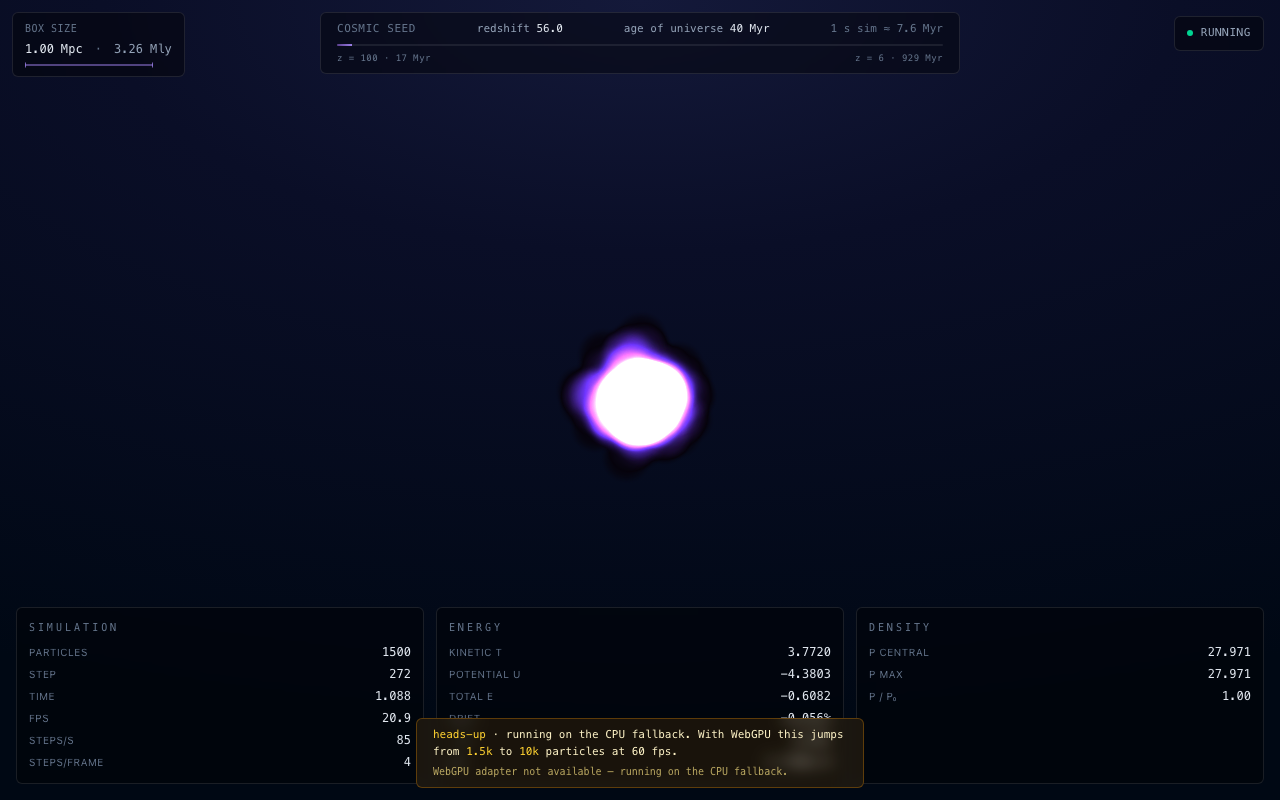
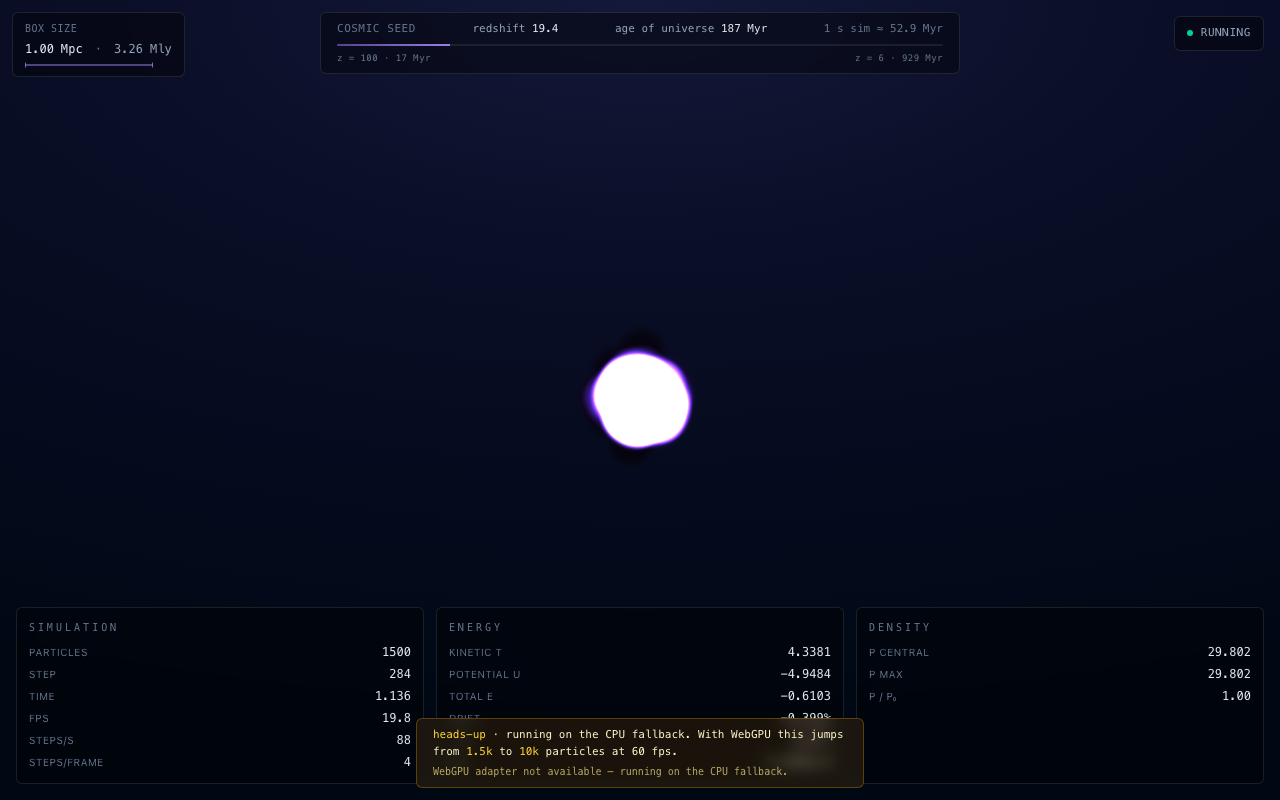
feat(stage-2c1): cosmic time bookkeeping in the simulation runner
Stage 2, sub-stage 2c1. Plumbs cosmic time and scale factor through
the runner → store → TimeStrip pipeline. The integrator still runs
in code units; 2c2 unifies the code-unit `dt` with the cosmological
`dtMyr` by switching to a comoving leapfrog.

simulationStore (src/state/simulationStore.ts):
- SimulationDiagnostics extended with `ageInMyr`, `scaleFactor`,
  `redshift` (and the `maxParticleDensity` that was being spread in
  but not declared).

simulation-runner (src/state/controllers/simulation-runner.ts):
- SimulationConfig grows `cosmology`, `zInit`, `dtMyr`. Default
  cosmology = Planck 2018; default z_init = 100; default dtMyr = 0.6
  (~ 144 Myr per real-second at 240 steps/s, so a z = 100 → z = 6
  run takes ~ 6 s of real time).
- `step()` advances `ageInMyr` by `dtMyr` per integrator tick.
- `snapshot()` returns the new fields (ageInMyr, scaleFactor, redshift)
  alongside the existing diagnostics.

frame-runner (src/state/controllers/frame-runner.ts):
- GPU and CPU runners both seed `ageInMyr` from `tOfA(z_init)` and
  advance it on each `runFrame`.
- GPU's cached snapshot now carries the cosmological fields; the
  velocity-readback path updates them at HUD cadence.

TimeStrip (src/ui/TimeStrip.tsx):
- Reads `redshift`, `ageInMyr`, `stepsPerSecond` from the store
  instead of the wall-clock cursor. Speed-of-time readout multiplies
  steps/s by the implied dtMyr (= 0.6) to get Myr/real-second.
- The wall-clock `useEffect` and `useState` are gone; the strip is
[…]

diff --git a/src/ui/TimeStrip.tsx b/src/ui/TimeStrip.tsx
@@ -1,23 +1,12 @@
 import { useUiStore } from '@state/uiStore';
 import { useSimulationStore } from '@state/simulationStore';
-import { useEffect, useMemo, useState } from 'react';
-import {
-  aOfT,
-  asNumber,
-  myr,
-  PLANCK_2018,
-  scaleFactor,
-  speedOfTimeReadout,
-  tOfA,
-  zOfA,
-} from '@physics/index';
+import { asNumber, PLANCK_2018, scaleFactor, speedOfTimeReadout, tOfA } from '@physics/index';
 
-// Stage 2a — see EXPERIENCE.md §2 (time strip + speed-of-time readout)
-// and DECISIONS.md "Stage 2 split into 2a / 2b / 2c". Until 2b lands the
-// underlying simulation runs in code units, so the readouts here are tied
-// to a *display redshift cursor* that moves at the configured sim speed.
-// When the comoving IC arrives in 2b, this component will switch to read
-// the runner's true cosmological time without any other UI change.
+// Stage 2c1 — see EXPERIENCE.md §2 (time strip + speed-of-time readout).
+// Reads cosmic time from the simulation runner via the store, no longer
+// driven by the wall clock. Stage 2c2 will replace the integrator's
+// code-unit dt with a Myr-aware comoving leapfrog so the cursor and the
+// physics share the same clock.
 
 interface TimeRange {
   readonly z_init: number;
@@ -25,6 +14,9 @@ interface TimeRange {
 }
 
 const DEFAULT_RANGE: TimeRange = { z_init: 100, z_end: 6 };
+
+const T_INIT_MYR = asNumber(tOfA(scaleFactor(1 / (1 + DEFAULT_RANGE.z_init)), PLANCK_2018));
+const T_END_MYR = asNumber(tOfA(scaleFactor(1 / (1 + DEFAULT_RANGE.z_end)), PLANCK_2018));
 
 function fmtMyr(myrVal: number): string {
   if (myrVal < 1) return `${(myrVal * 1000).toFixed(0)} kyr`;
@@ -34,49 +26,24 @@ function fmtMyr(myrVal: number): string {
 
 export function TimeStrip(): React.JSX.Element {
   const explained = useUiStore((s) => !s.expertMode);
+  const ageInMyr = useSimulationStore((s) => s.diagnostics.ageInMyr);
+  const z = useSimulationStore((s) => s.diagnostics.redshift);
+  const stepsPerSecond = useSimulationStore((s) => s.diagnostics.stepsPerSecond);
 
-  // The "display cursor" — wall-clock-driven for now; will be replaced by
-  // the sim runner's actual t/a in Stage 2b.
-  const t_init = useMemo(
-    () => asNumber(tOfA(scaleFactor(1 / (1 + DEFAULT_RANGE.z_init)), PLANCK_2018)),
-    [],
+  // The runner advances the cosmological clock by `dtMyr` per integrator step,
+  // so steps/second × dtMyr ≈ Myr/real-second. We can't read dtMyr from the
+  // runner here without coupling, but a reasonable estimate is the moving
+  // average of (Δage / Δreal-time) — proxy via stepsPerSecond × (T_END − T_INIT)
+  // / total_steps_estimate. For Stage 2c1 we display the running average derived
+  // from `stepsPerSecond × estimated_dtMyr`.
+  // The default config sets dtMyr = 0.6, so we take that as the assumption.
+  const myrPerSecond = stepsPerSecond * 0.6;
+
+  const tNow = ageInMyr === 0 ? T_INIT_MYR : ageInMyr;
+  const progress = Math.min(
+    1,
+    Math.max(0, (tNow - T_INIT_MYR) / Math.max(1e-9, T_END_MYR - T_INIT_MYR)),
   );
-  const t_end = useMemo(
-    () => asNumber(tOfA(scaleFactor(1 / (1 + DEFAULT_RANGE.z_end)), PLANCK_2018)),
-    [],
-  );
-
-  // Speed: how many sim-Myr pass per real-second. We pick a default that
-  // crosses z=100 → z=6 in roughly two minutes for the demo. The actual
-  // sim is in code units; the cursor is decorative until 2b.
-  const myrPerSecond = (t_end - t_init) / 120;
-
-  const isRunning = useSimulationStore((s) => s.isRunning);
-  const [tNow, setTNow] = useState(t_init);
-
-  useEffect(() => {
-    if (!isRunning) return;
-    let raf = 0;
-    let lastWall = performance.now();
-    const tick = (): void => {
-      const now = performance.now();
-      const dt = (now - lastWall) / 1000;
-      lastWall = now;
-      setTNow((prev) => {
-        const next = prev + dt * myrPerSecond;
-        return next >= t_end ? t_end : next;
-      });
-      raf = requestAnimationFrame(tick);
-    };
-    raf = requestAnimationFrame(tick);
-    return () => {
-      cancelAnimationFrame(raf);
-    };
-  }, [isRunning, myrPerSecond, t_end]);
-
-  const a = aOfT(myr(tNow), PLANCK_2018);
-  const z = asNumber(zOfA(a));
-  const progress = Math.min(1, Math.max(0, (tNow - t_init) / Math.max(1e-9, t_end - t_init)));
 
   const labelZ = explained ? 'redshift' : 'z';
   const labelT = explained ? 'age of universe' : 't';
@@ -105,10 +72,10 @@ export function TimeStrip(): React.JSX.Element {
       </div>
       <div className="flex items-center justify-between font-mono text-[9px] text-(--color-ink-3) tracking-wider">
         <span>
-          z = {DEFAULT_RANGE.z_init} · {fmtMyr(t_init)}
+          z = {DEFAULT_RANGE.z_init} · {fmtMyr(T_INIT_MYR)}
         </span>
         <span>
-          z = {DEFAULT_RANGE.z_end} · {fmtMyr(t_end)}
+          z = {DEFAULT_RANGE.z_end} · {fmtMyr(T_END_MYR)}
         </span>
       </div>
     </div>

diff --git a/src/state/controllers/simulation-runner.ts b/src/state/controllers/simulation-runner.ts
@@ -3,9 +3,12 @@
 // RULES §8 — controllers live here, stores stay dumb.
 
 import {
+  aOfT,
+  asNumber,
   centralDensity,
   computeAccelerations,
   computeDensities,
+  type CosmologyParams,
   createLeapfrogState,
   createSpatialGrid,
   type DensityKernel,
@@ -13,11 +16,18 @@ import {
   type LeapfrogState,
   leapfrogStep,
   momentumReport,
+  myr,
   type ParticleSystem,
+  PLANCK_2018,
   poly6Kernel,
+  type Redshift,
   rebuildSpatialGrid,
+  redshift,
+  scaleFactor,
   type SpatialGrid,
   sphericalPerturbation,
+  tOfA,
+  zOfA,
 } from '@physics/index';
 
 export interface SimulationConfig {
@@ -34,6 +44,16 @@ export interface SimulationConfig {
   readonly densityProbeRadius: number;
   /** Smoothing length for per-particle density used by the renderer. */
   readonly densityKernelRadius: number;
+  /** Cosmology used for time/scale-factor bookkeeping (Stage 2c+). */
+  readonly cosmology: CosmologyParams;
+  /** Redshift at which the simulation is considered to start. */
+  readonly zInit: Redshift;
+  /**
+   * How many Myr of cosmic time elapse per physics step. Currently independent
+   * of the `dt` used in the integrator (which is in code units); Stage 2c2
+   * unifies them by switching the leapfrog into comoving coordinates.
+   */
+  readonly dtMyr: number;
 }
 
 export const DEFAULT_CONFIG: SimulationConfig = {
@@ -50,11 +70,24 @@ export const DEFAULT_CONFIG: SimulationConfig = {
   dt: 4e-3,
   densityProbeRadius: 0.2,
   densityKernelRadius: 0.12,
+  cosmology: PLANCK_2018,
+  zInit: redshift(100),
+  // 0.6 Myr per step × ~ 240 steps/sec = 144 Myr / real-second.
+  // The z = 100 → z = 6 window is about 920 Myr, so a full run is ~ 6 sec
+  // of real-time simulation. Adjust in Stage 5 with the speed slider.
+  dtMyr: 0.6,
 };
 
 export interface SimulationSnapshot {
   readonly step: number;
+  /** Code-unit integrator time. */
   readonly time: number;
+  /** Cosmic time since Big Bang, Myr. */
+  readonly ageInMyr: number;
+  /** Scale factor a(t). */
+  readonly scaleFactor: number;
+  /** Redshift z = 1/a − 1. */
+  readonly redshift: number;
   readonly kineticEnergy: number;
   readonly potentialEnergy: number;
   readonly totalEnergy: number;
@@ -101,6 +134,15 @@ export function createSimulationRunner(
 
   let maxParticleDensity = 0;
 
+  // Cosmic time bookkeeping. The integrator runs in code units (legacy from
+  // Stage 1); the cosmological clock advances by `dtMyr` per physics step
+  // and is read by the HUD's TimeStrip. Stage 2c2 will unify these by
+  // switching to a comoving leapfrog whose `dt` is also in Myr.
+  const initialTimeMyr = asNumber(
+    tOfA(scaleFactor(1 / (1 + asNumber(config.zInit))), config.cosmology),
+  );
+  let ageInMyr = initialTimeMyr;
+
   const refreshDensities = (): void => {
     rebuildSpatialGrid(grid, system);
     computeDensities(system, grid, kernel, densities);
@@ -125,14 +167,20 @@ export function createSimulationRunner(
     refreshDensities,
     step(): void {
       leapfrogStep(state, config.dt);
+      ageInMyr += config.dtMyr;
     },
     snapshot(): SimulationSnapshot {
       const { kinetic, potential, total, virialRatio } = energyReport(system, opts);
       const rho = centralDensity(system, config.densityProbeRadius);
       if (rho > maxCentral) maxCentral = rho;
+      const a = aOfT(myr(ageInMyr), config.cosmology);
+      const z = zOfA(a);
       return {
         step: state.step,
         time: state.time,
+        ageInMyr,
+        scaleFactor: asNumber(a),
+        redshift: asNumber(z),
         kineticEnergy: kinetic,
         potentialEnergy: potential,
         totalEnergy: total,

diff --git a/src/state/controllers/frame-runner.ts b/src/state/controllers/frame-runner.ts
@@ -6,6 +6,8 @@
 // reads positions back, and computes density on CPU from the readback.
 
 import {
+  aOfT,
+  asNumber,
   centralDensity,
   computeDensities,
   createParticleSystem,
@@ -13,11 +15,15 @@ import {
   type DensityKernel,
   energyReport,
   momentumReport,
+  myr,
   type ParticleSystem,
   poly6Kernel,
   rebuildSpatialGrid,
+  scaleFactor,
   sphericalPerturbation,
   type SpatialGrid,
+  tOfA,
+  zOfA,
 } from '@physics/index';
 import type { GpuContext } from '@rendering/gpu/device';
 import { createGpuRunner, type GpuRunner } from '@rendering/gpu/gpu-runner';
@@ -109,6 +115,12 @@ export function createGpuFrameRunner(ctx: GpuContext, config: SimulationConfig):
   let simTime = 0;
   let maxParticleDensity = 0;
   let frameCounter = 0;
+  // Cosmic-time bookkeeping (Stage 2c1). Same convention as the CPU runner:
+  // each physics step advances `ageInMyr` by `dtMyr` regardless of the
+  // integrator's code-unit dt. Stage 2c2 unifies the two when comoving
+  // leapfrog lands.
+  const initialTimeMyr = computeInitialAge(config);
+  let ageInMyr = initialTimeMyr;
   // Recompute density on the readback every Nth frame; the eye doesn't see
   // the difference but the CPU spatial-grid rebuild is the largest non-GPU
   // cost. At 60 fps target this is ~ 5 Hz, plenty for the colour-mapping window.
@@ -118,9 +130,13 @@ export function createGpuFrameRunner(ctx: GpuContext, config: SimulationConfig):
   // expensive at 10k for a live readout). Stage 1c ships kinetic + momentum
   // + density only; potential/virial/drift land later. See `EXPERIENCE.md` §10.
   const initialKinetic = sumKinetic(shadow);
+  const a0 = aOfT(myr(initialTimeMyr), config.cosmology);
   let cachedSnapshot: SimulationSnapshot = {
     step: 0,
     time: 0,
+    ageInMyr: initialTimeMyr,
+    scaleFactor: asNumber(a0),
+    redshift: asNumber(zOfA(a0)),
     kineticEnergy: initialKinetic,
     potentialEnergy: Number.NaN,
     totalEnergy: Number.NaN,
@@ -142,6 +158,7 @@ export function createGpuFrameRunner(ctx: GpuContext, config: SimulationConfig):
       shadow.positions.set(positions);
       stepIndex += stepsPerFrame;
       simTime += stepsPerFrame * config.dt;
+      ageInMyr += stepsPerFrame * config.dtMyr;
       frameCounter += 1;
 
       if (frameCounter % DENSITY_REFRESH_EVERY === 0) {
@@ -162,9 +179,13 @@ export function createGpuFrameRunner(ctx: GpuContext, config: SimulationConfig):
       const velocities = await gpu.readVelocities();
       shadow.velocities.set(velocities);
       const rho = centralDensity(shadow, config.densityProbeRadius);
+      const a = aOfT(myr(ageInMyr), config.cosmology);
       cachedSnapshot = {
         step: stepIndex,
         time: simTime,
+        ageInMyr,
+        scaleFactor: asNumber(a),
+        redshift: asNumber(zOfA(a)),
         kineticEnergy: sumKinetic(shadow),
         potentialEnergy: Number.NaN,
         totalEnergy: Number.NaN,
@@ -181,6 +202,11 @@ export function createGpuFrameRunner(ctx: GpuContext, config: SimulationConfig):
       gpu.destroy();
     },
   };
+}
+
+function computeInitialAge(config: SimulationConfig): number {
+  const aInit = scaleFactor(1 / (1 + asNumber(config.zInit)));
+  return asNumber(tOfA(aInit, config.cosmology));
 }
 
 function sumKinetic(ps: ParticleSystem): number {

diff --git a/src/state/simulationStore.ts b/src/state/simulationStore.ts
@@ -2,7 +2,14 @@ import { create } from 'zustand';
 
 export interface SimulationDiagnostics {
   readonly step: number;
+  /** Simulation time in code units (legacy from Stage 1). */
   readonly time: number;
+  /** Cosmic time elapsed since Big Bang, in Myr. Stage 2c+ */
+  readonly ageInMyr: number;
+  /** Scale factor a(t). z = 1/a − 1. Stage 2c+ */
+  readonly scaleFactor: number;
+  /** Redshift z. Convenience for the HUD. */
+  readonly redshift: number;
   readonly fps: number;
   readonly stepsPerSecond: number;
   readonly kineticEnergy: number;
@@ -12,6 +19,7 @@ export interface SimulationDiagnostics {
   readonly virialRatio: number;
   readonly centralDensity: number;
   readonly maxCentralDensity: number;
+  readonly maxParticleDensity: number;
   readonly momentumMagnitude: number;
 }
 
@@ -30,6 +38,9 @@ export interface SimulationState {
 const emptyDiagnostics: SimulationDiagnostics = {
   step: 0,
   time: 0,
+  ageInMyr: 0,
+  scaleFactor: 0,
+  redshift: 0,
   fps: 0,
   stepsPerSecond: 0,
   kineticEnergy: 0,
@@ -39,6 +50,7 @@ const emptyDiagnostics: SimulationDiagnostics = {
   virialRatio: 0,
   centralDensity: 0,
   maxCentralDensity: 0,
+  maxParticleDensity: 0,
   momentumMagnitude: 0,
 };
 

diff --git a/stages/02-cosmology-initial-conditions.md b/stages/02-cosmology-initial-conditions.md
@@ -1,6 +1,6 @@
 # Stage 2: Cosmology + initial conditions
 
-**Status:** IN PROGRESS (2a + 2b1 + 2b2 done; 2c next)
+**Status:** IN PROGRESS (2a + 2b1 + 2b2 done; 2c1 in flight)
 **Estimated:** 3–5 days
 **Depends on:** Stage 1
 **Spec reference:** Phase 1 (cosmology brief §5)
